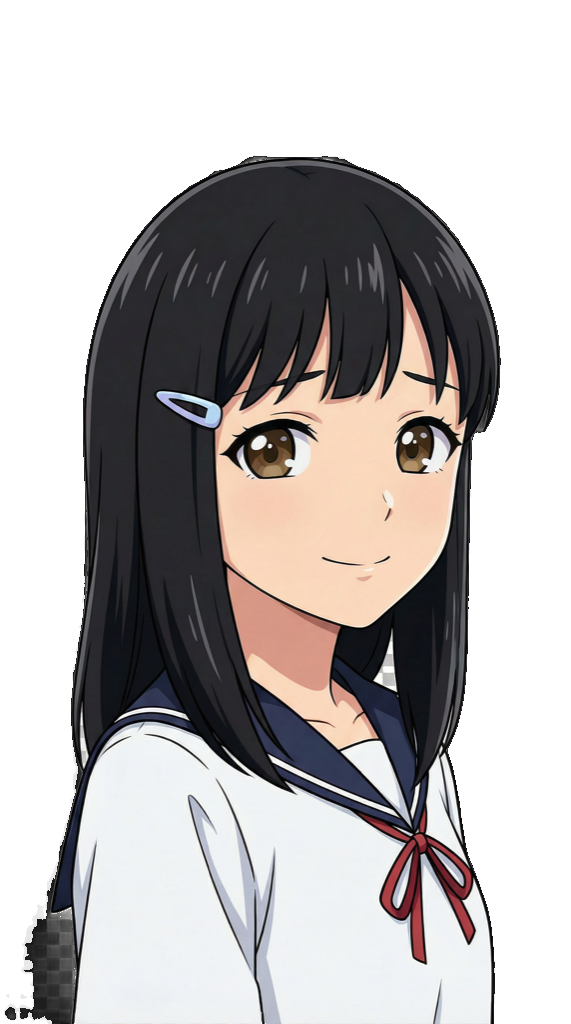
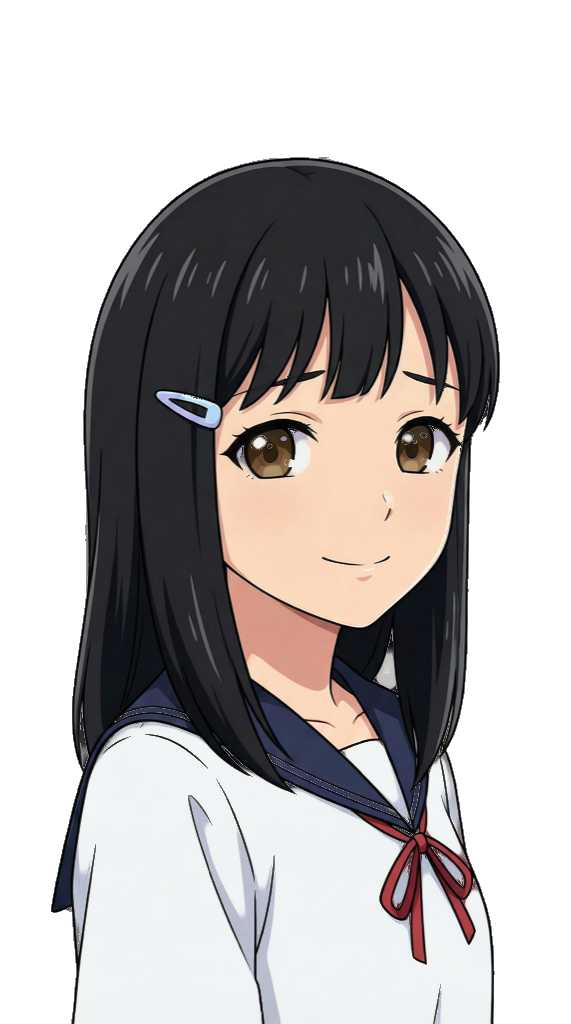
大幅修正: キャラ画像isnet再処理+NPCしゃがみ+机下保護+警報音
1.全stage1画像をisnet-general-use+チェッカー除去+メディアン平滑化で再生成

2.NPCの地震しゃがみポーズを深化(関節回転追加)

3.机下しゃがみ中は落下物ダメージ無効

4.J-Alert風ピロンピロン警報音をplayEarthquakeAlarmとして実装

5.キャッシュバスターv13に更新

diff --git a/index.html b/index.html
@@ -3144,6 +3144,38 @@ const SoundManager = {
     this._quakeLoop = null;
   },
 
+  // J-Alert風 緊急地震速報警報音（ピロンピロン × 3回）
+  playEarthquakeAlarm() {
+    if (!this.seEnabled) return;
+    try {
+      const ctx = this.getCtx();
+      if (!ctx) return;
+      const now = ctx.currentTime;
+      // NHKチャイム風: 2音交互（D5=587Hz, A5=880Hz）を繰り返す
+      var tones = [
+        {f: 880, t: 0},    {f: 587, t: 0.20},
+        {f: 880, t: 0.40}, {f: 587, t: 0.60},
+        {f: 880, t: 0.80}, {f: 587, t: 1.00},
+        {f: 880, t: 1.20}, {f: 587, t: 1.40},
+        {f: 880, t: 1.60}, {f: 587, t: 1.80},
+        {f: 880, t: 2.00}, {f: 587, t: 2.20}
+      ];
+      for (var i = 0; i < tones.length; i++) {
+        var osc = ctx.createOscillator();
+        var gain = ctx.createGain();
+        osc.connect(gain);
+        gain.connect(ctx.destination);
+        osc.type = 'sine';
+        var start = now + tones[i].t;
+        osc.frequency.setValueAtTime(tones[i].f, start);
+        gain.gain.setValueAtTime(0.3, start);
+        gain.gain.linearRampToValueAtTime(0, start + 0.18);
+        osc.start(start);
+        osc.stop(start + 0.19);
+      }
+    } catch (e) {}
+  },
+
   playSE(type) {
     if (!this.seEnabled) return;
     try {
@@ -3286,7 +3318,7 @@ var NovelEngine = {
         var src = folder + line.speaker + '_' + line.expr + '.png';
         if (!self._imageCache[src]) {
           var img = new Image();
-          img.src = src + '?v=12';
+          img.src = src + '?v=13';
           self._imageCache[src] = img;
         }
       }
@@ -3392,7 +3424,7 @@ var NovelEngine = {
     var info = this.SPEAKERS[line.speaker];
     if (!info) return;
     var folder = (line.speaker === 'bousai') ? 'characters/shared/' : 'characters/stage' + (GAME.stageNum || 1) + '/';
-    var src = folder + line.speaker + '_' + (line.expr || 'normal') + '.png?v=12';
+    var src = folder + line.speaker + '_' + (line.expr || 'normal') + '.png?v=13';
 
     // ボウサイキャラのサイズ調整クラス
     this.charaLeft.classList.remove('chara-bousai');
@@ -6076,10 +6108,26 @@ function updateSingleNPC(npc, dtSec) {
     case 'shaking':
       // 地震中の行動
       if (npc.behavior === 'calm') {
-        // 冷静: 机の下にしゃがむ（Y位置を下げて机の下に隠れる）
+        // 冷静: 机の下にしゃがむ（関節ポーズ変更で頭が机の下に入る）
         if (npc.state !== 'crouching') {
           npc.state = 'crouching';
-          mesh.position.y = -0.45;
+          mesh.position.y = -0.55;
+          // 関節ポーズ: 深いしゃがみ（プレイヤーと同じ方式）
+          var body = mesh.userData.body;
+          if (body) {
+            body.rotation.x = 0.5; // 前かがみ
+            var neck = body.children.find(function(c) { return c.type === 'Object3D' && c.children.length > 0 && c.children[0].geometry && c.children[0].geometry.type === 'SphereGeometry'; });
+          }
+          if (mesh.userData.leftLeg) {
+            mesh.userData.leftLeg.rotation.x = -1.6;
+            var upperL = mesh.userData.leftLeg.children[0];
+            if (upperL && upperL.children[0]) upperL.children[0].rotation.x = 2.2;
+          }
+          if (mesh.userData.rightLeg) {
+            mesh.userData.rightLeg.rotation.x = -1.6;
+            var upperR = mesh.userData.rightLeg.children[0];
+            if (upperR && upperR.children[0]) upperR.children[0].rotation.x = 2.2;
+          }
           // 机の下に移動（自分のデスク位置へ）
           if (npc.deskX !== undefined) {
             mesh.position.x = npc.deskX;
@@ -6811,7 +6859,7 @@ function transitionPhase(newPhase) {
     // 地震ノベル: 教室ざわめき停止→地震BGM開始
     SoundManager.stopAmbient(300);
     SoundManager.playBGM('BGM/JISHIN_earthquake.mp3', 0.35, false);
-    SoundManager.playSE('alarm');
+    SoundManager.playEarthquakeAlarm(); // J-Alert風警報音（ピロンピロン）
     NovelEngine.start(
       novelScripts.earthquake,
       'backgrounds/stage1/bg_classroom_shake.png',
@@ -7108,14 +7156,18 @@ function updateFallingObjects(dtSec) {
       }
 
       // プレイヤーとの当たり判定（落下中のみ）
+      // 机の下にしゃがんでいる場合はダメージ無効（机が落下物を防ぐ）
       if (fo.falling && !fo.hitPlayer) {
-        var dx = GAME.player.x - fo.mesh.position.x;
-        var dz = GAME.player.z - fo.mesh.position.z;
-        var dist = Math.sqrt(dx * dx + dz * dz);
-        var yDiff = Math.abs(GAME.player.y - fo.mesh.position.y);
-        if (dist < 0.5 && yDiff < 1.0) {
-          fo.hitPlayer = true;
-          onPlayerHit(fo.type);
+        var isUnderDesk = GAME.player.isCrouching && (GAME.phase === 'earthquake' || GAME.phase === 'shaking');
+        if (!isUnderDesk) {
+          var dx = GAME.player.x - fo.mesh.position.x;
+          var dz = GAME.player.z - fo.mesh.position.z;
+          var dist = Math.sqrt(dx * dx + dz * dz);
+          var yDiff = Math.abs(GAME.player.y - fo.mesh.position.y);
+          if (dist < 0.5 && yDiff < 1.0) {
+            fo.hitPlayer = true;
+            onPlayerHit(fo.type);
+          }
         }
       }
     }
